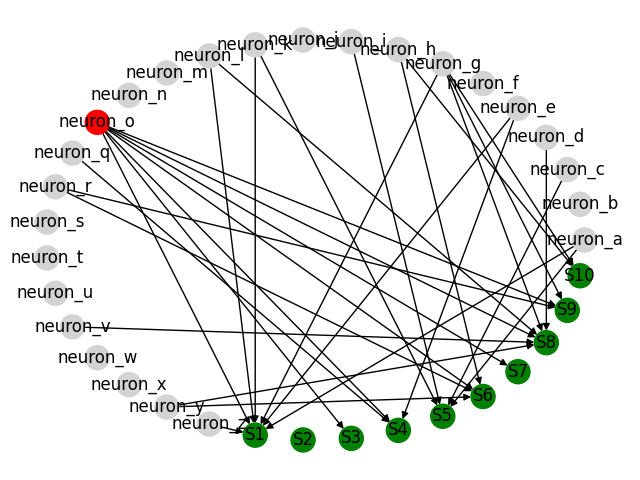
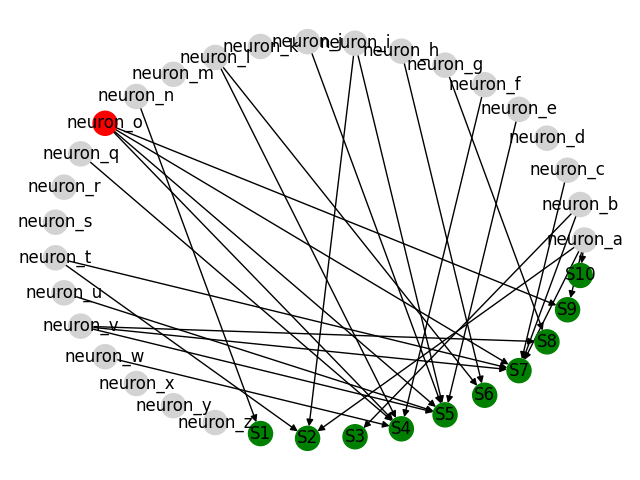
minor adjustments

Changed region(s): [[0.0, 0.0625, 0.9688, 0.9375]]

diff --git a/sensory_neural_network.py b/sensory_neural_network.py
@@ -26,42 +26,44 @@ def run_sensory_neurons():
             if neuron.result == "Fires":
                 print(f"{neuron.name}: Fires")
 
-run_sensory_neurons()
-
-for sen_neuron in sensory_neurons: 
-    if sen_neuron.result == "Fires":
-        for s_neuron in secondary_neurons: 
-            rando = random.random()
-            if rando <= 0.4: 
-                synapses.append(nc.Synapse(sen_neuron,s_neuron))
-                
-    else:
-        for s_neuron in secondary_neurons:
-            rando = random.random()
-            if rando <= 0.1: 
-                synapses.append(nc.Synapse(sen_neuron,s_neuron))
-
-G = nx.DiGraph()
-for sen_neuron in sensory_neurons:
-    color = "red" if sen_neuron.result == "Fires" else "lightgray"
-    G.add_node(sen_neuron.name, color=color)
-for s_neuron in secondary_neurons:
-    G.add_node(s_neuron.name, color="green")
 
 
-for synapse in synapses: 
-    sen_neuron = synapse.presynaptic_neuron.name
-    s_neuron = synapse.postsynaptic_neuron.name
-    # print(p_neuron, s_neuron)
-    G.add_edge(sen_neuron, s_neuron)
+def generate_synapses():
+    for sen_neuron in sensory_neurons: 
+        if sen_neuron.result == "Fires":
+            for s_neuron in secondary_neurons: 
+                rando = random.random()
+                if rando <= 0.4: 
+                    synapses.append(nc.Synapse(sen_neuron,s_neuron))
+                    
+        else:
+            for s_neuron in secondary_neurons:
+                rando = random.random()
+                if rando <= 0.1: 
+                    synapses.append(nc.Synapse(sen_neuron,s_neuron))
 
-# Extract node colors for drawing
-node_colors = [data.get("color", "lightgray") for _, data in G.nodes(data=True)]
-    
-nx.draw_circular(G, node_color=node_colors, with_labels=True, arrows=True)
-plt.savefig("image_sensory_neural_network.png")
+def draw_graph():
+    G = nx.DiGraph()
+    for sen_neuron in sensory_neurons:
+        color = "red" if sen_neuron.result == "Fires" else "lightgray"
+        G.add_node(sen_neuron.name, color=color)
+    for s_neuron in secondary_neurons:
+        G.add_node(s_neuron.name, color="green")
 
-def run_network():
+
+    for synapse in synapses: 
+        sen_neuron = synapse.presynaptic_neuron.name
+        s_neuron = synapse.postsynaptic_neuron.name
+        # print(p_neuron, s_neuron)
+        G.add_edge(sen_neuron, s_neuron)
+
+    # Extract node colors for drawing
+    node_colors = [data.get("color", "lightgray") for _, data in G.nodes(data=True)]
+        
+    nx.draw_circular(G, node_color=node_colors, with_labels=True, arrows=True)
+    plt.savefig("image_sensory_neural_network.png")
+
+def run_secondary_neurons():
     for synapse in synapses:
         signal = synapse.get_signal()
         print(synapse.postsynaptic_neuron.name, signal)
@@ -77,7 +79,12 @@ def run_network():
     for element in output: 
         print(element)
 
-run_network()
+run_sensory_neurons()
+generate_synapses()
+draw_graph()
+for _ in range(5):
+    run_secondary_neurons()
+
 
 
 

diff --git a/Neuron_modelling.md b/Neuron_modelling.md
@@ -21,5 +21,8 @@
 	- [x] graph theory as such 
 	- [ ] how to implement graphs in python
 
-- [ ] **increase the size of the neural network**
-	- [] say 5 primary and 10 secondary neurons
+- [x] **increase the size of the neural network**
+	- [x] say 5 primary and 10 secondary neurons
+
+- [x] **create an input mechanism** 
+	- [x] primary sensory neurons should respond to some category of stimulus (e.g. the color red)
